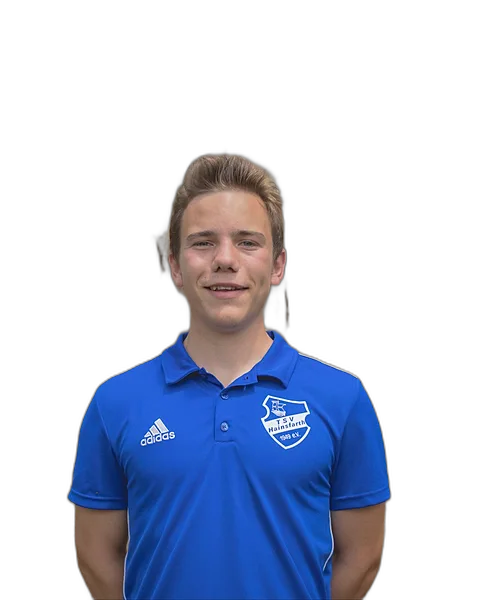
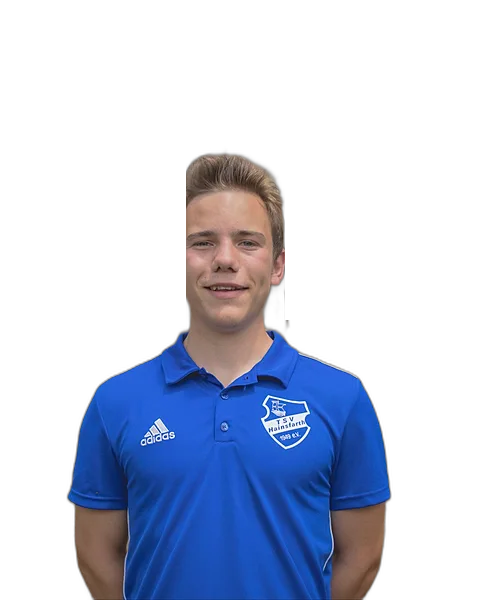
Refresh cleaned squad cutout assets

Changed region(s): [[0.3125, 0.3, 0.4062, 0.51], [0.5938, 0.48, 0.625, 0.54], [0.5938, 0.42, 0.625, 0.45]]

diff --git a/script.js b/script.js
@@ -815,7 +815,7 @@ if (squadData?.teams) {
       return null;
     }
 
-    return `images/kader/cutouts/${token}.png?v=20260316i`;
+    return `images/kader/cutouts/${token}.png?v=20260317a`;
   };
   const fallbackImageAttributes = (value) => {
     const remoteImage = resolveImageUrl(value);

diff --git a/kader.html b/kader.html
@@ -124,6 +124,6 @@
     </footer>
   </div>
   <script src="team-data.js?v=20260316c"></script>
-  <script src="script.js?v=20260316n"></script>
+  <script src="script.js?v=20260317a"></script>
 </body>
 </html>

diff --git a/datenschutz.html b/datenschutz.html
@@ -126,6 +126,6 @@
       </div>
     </footer>
   </div>
-  <script src="script.js?v=20260316n"></script>
+  <script src="script.js?v=20260317a"></script>
 </body>
 </html>

diff --git a/impressum.html b/impressum.html
@@ -103,6 +103,6 @@
       </div>
     </footer>
   </div>
-  <script src="script.js?v=20260316n"></script>
+  <script src="script.js?v=20260317a"></script>
 </body>
 </html>

diff --git a/kontakt.html b/kontakt.html
@@ -133,6 +133,6 @@
       </div>
     </footer>
   </div>
-  <script src="script.js?v=20260316n"></script>
+  <script src="script.js?v=20260317a"></script>
 </body>
 </html>

diff --git a/sportangebot.html b/sportangebot.html
@@ -130,6 +130,6 @@
       </div>
     </footer>
   </div>
-  <script src="script.js?v=20260316n"></script>
+  <script src="script.js?v=20260317a"></script>
 </body>
 </html>

diff --git a/verein.html b/verein.html
@@ -177,6 +177,6 @@
       </div>
     </footer>
   </div>
-  <script src="script.js?v=20260316n"></script>
+  <script src="script.js?v=20260317a"></script>
 </body>
 </html>

diff --git a/fanshop.html b/fanshop.html
@@ -67,6 +67,6 @@
       </div>
     </footer>
   </div>
-  <script src="script.js?v=20260316n"></script>
+  <script src="script.js?v=20260317a"></script>
 </body>
 </html>

diff --git a/index.html b/index.html
@@ -432,6 +432,6 @@
       );
     }
   </script>
-  <script src="script.js?v=20260316n"></script>
+  <script src="script.js?v=20260317a"></script>
 </body>
 </html>
